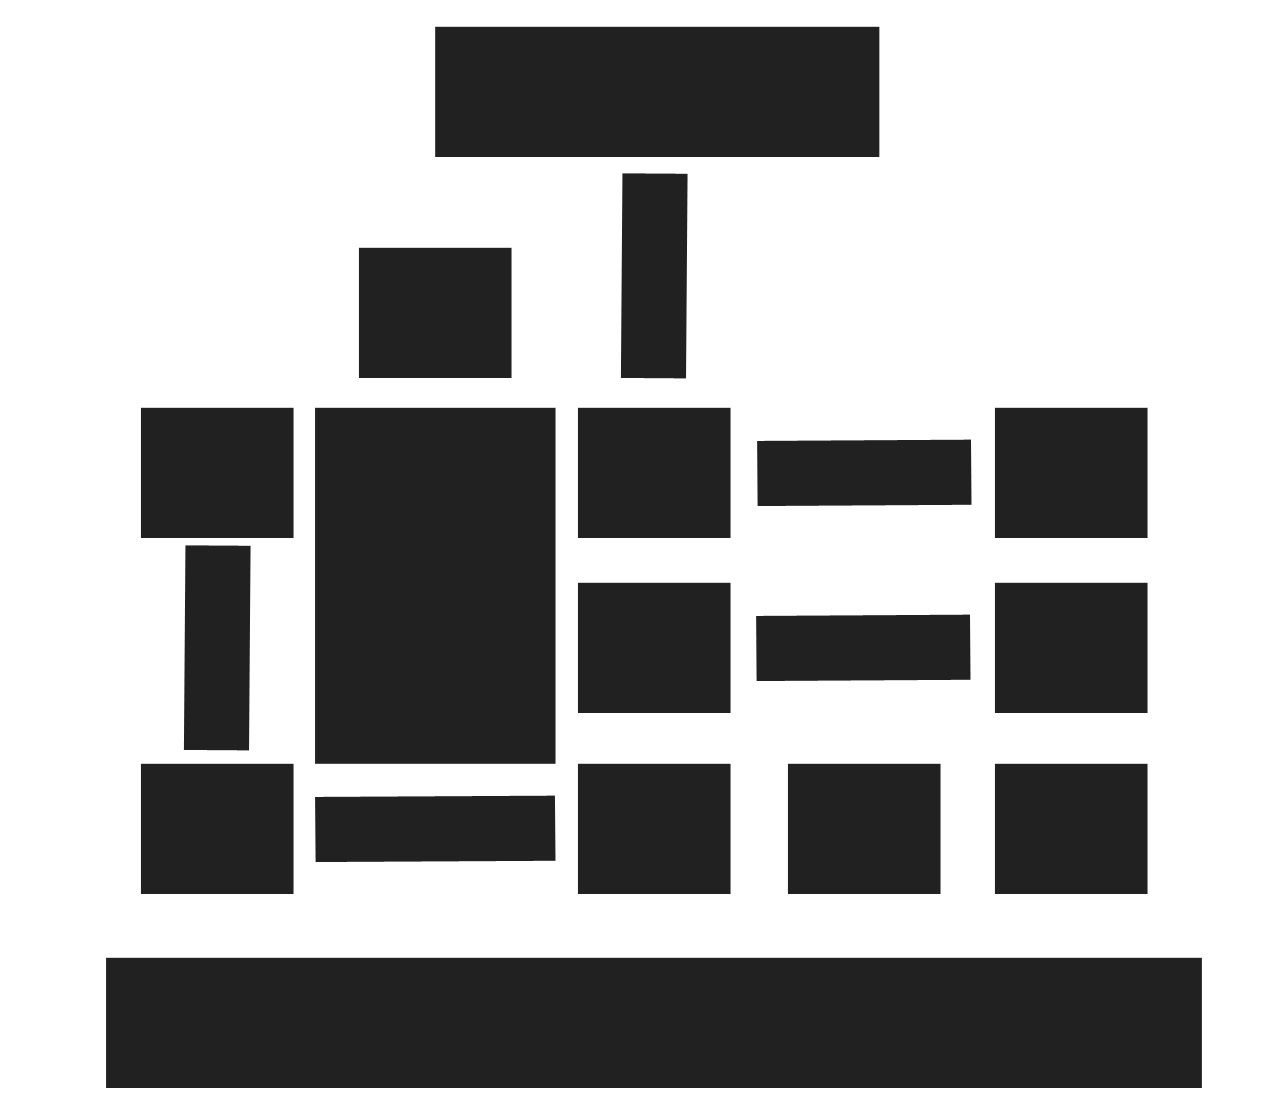
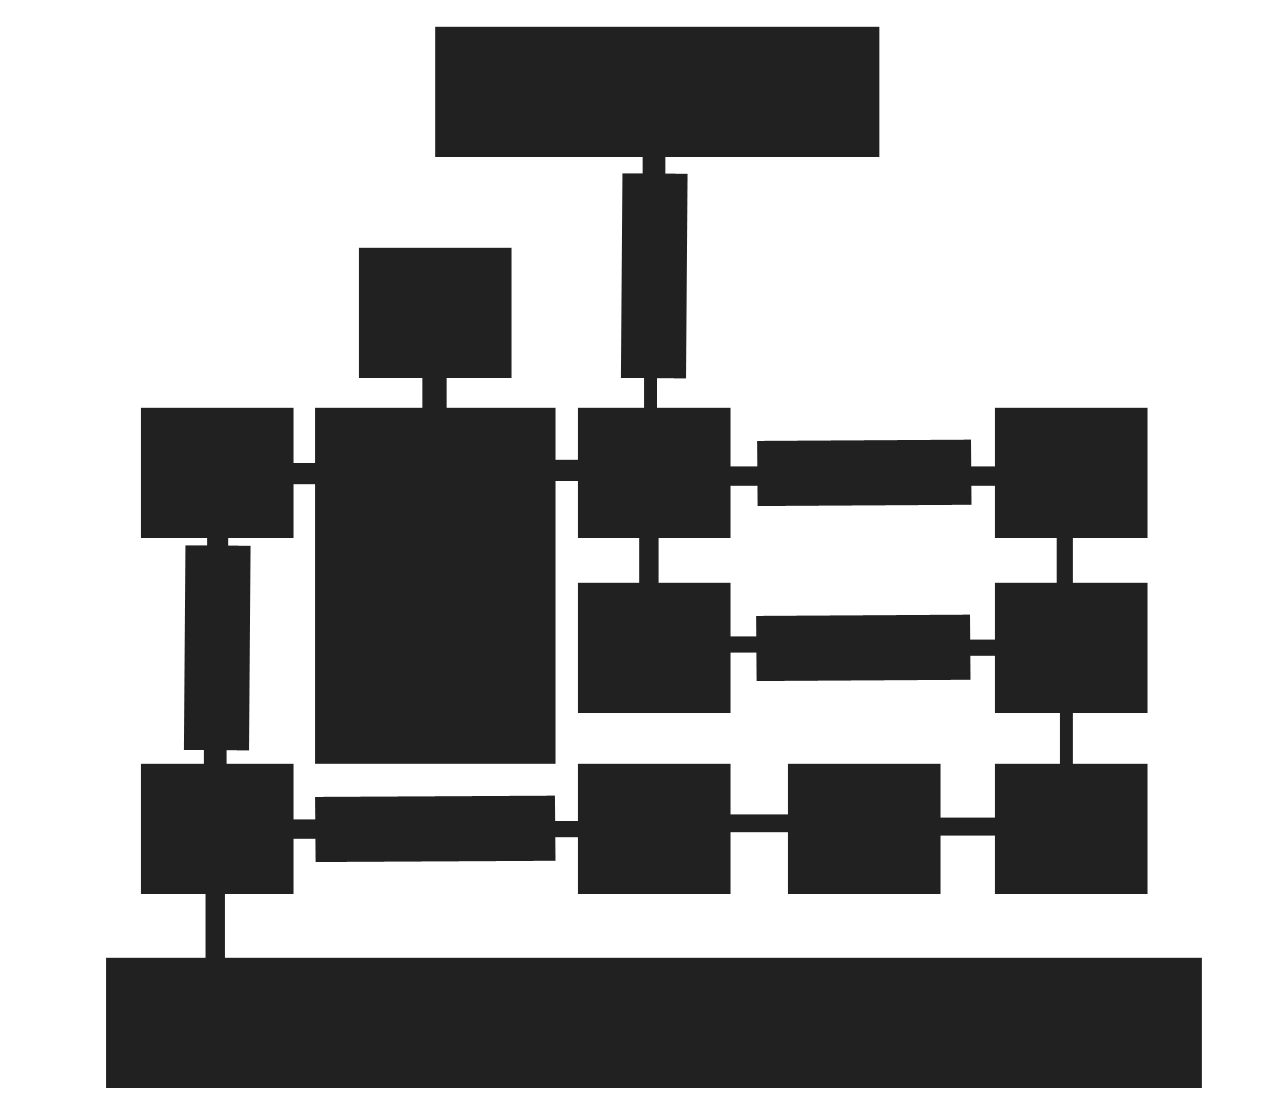
working on the point and click from room to room, set new locations for the move clicking rects, then the rect for the current room

diff --git a/Final Project/Game1.cs b/Final Project/Game1.cs
@@ -34,8 +34,11 @@ namespace Final_Project
             residenceRoom2,
             securityRoom,
             cargoBayRoom,
-            hallway1Room,
-            hallway2Room,
+            hallwayARoom,
+            hallwayBRoom,
+            hallwayCRoom,
+            hallwayDRoom,
+            hallwayERoom,
             medBayRoom,
             engineRoom,
             reactorRoom,
@@ -53,25 +56,38 @@ namespace Final_Project
         MouseState newMouseState, oldMouseState;
         KeyboardState keyboardState;
 
-        Texture2D yourEscapePodTexture, dockingBayTexture, cargoBayTexture, hallway1Texture, hallway2Texture, residenceRoom1Texture, residenceRoom2Texture, messHallRoomTexture, securityRoomTexture, engineRoomTexture, reactorRoomTexture, logRoomTexture, commRoomTexture, elevatorRoomTexture, captainsQuartersRoomTexture, bridgeTexture, titleScreen;
-        Texture2D rectangleButtonTexture, circleIconTexture, storyPanel1, storyPanel2, closeButtonTexture, xunariMapIconTexture;
-        Rectangle backgroundRect, startButtonRect, storyTextBox, mapButtonRect, closeButtonRect, escapePodMapIconRect, xunariMapRect, miniMapRect, miniMapCurrentRoomIcon;
+        Texture2D yourEscapePodTexture, dockingBayTexture, escapePodBayTexture, cargoBayTexture, hallway1Texture, hallway2Texture, residenceRoom1Texture, residenceRoom2Texture, messHallRoomTexture, securityRoomTexture, engineRoomTexture, reactorRoomTexture, logRoomTexture, commRoomTexture, elevatorRoomTexture, captainsQuartersRoomTexture, bridgeTexture, titleScreen;
+        Texture2D rectangleButtonTexture, circleIconTexture, storyPanel1, storyPanel2, closeButtonTexture, xunariMapIconTexture, miniMapTexture, miniMapCurrentRoomTexture;
+        Texture2D DBmove1, DBmove2, DBmove3;
+
+        Rectangle backgroundRect, startButtonRect, storyTextBox, mapButtonRect, closeButtonRect, escapePodMapIconRect, xunariMapRect, miniMapRect, miniMapCurrentRoomRect, moveRoomRect1, moveRoomRect2, moveRoomRect3;
         int storyPanelCount = 0, iconBlinkCounter;
         float timeStamp, elapsedTimeSec;
-        bool travelToXunariPrompt = false;
+        bool travelToXunariPrompt = false, onXunari = false;
 
         protected override void Initialize()
         {
             _graphics.PreferredBackBufferWidth = 1275;
             _graphics.PreferredBackBufferHeight = 1000;
             _graphics.ApplyChanges();
+
             backgroundRect = new Rectangle(0, 0, 1275, 1000);
+
             startButtonRect = new Rectangle(520, 515, 220, 110);
             mapButtonRect = new Rectangle(1115, 855, 150, 130);
-            storyTextBox = new Rectangle(250, 50, 800, 800);
             closeButtonRect = new Rectangle(1610, 0, 50, 50);
+
+            storyTextBox = new Rectangle(250, 50, 800, 800);
+
+            moveRoomRect1 = new Rectangle();
+            moveRoomRect2 = new Rectangle();
+            moveRoomRect2 = new Rectangle();
+
             escapePodMapIconRect = new Rectangle(700, 810, 20, 20);
             xunariMapRect = new Rectangle(575, 360, 150, 300);
+            miniMapRect = new Rectangle(1000, 705, 275, 275);
+            miniMapCurrentRoomRect = new Rectangle();
+
             storyPanelCount = 0;
             screen = Screen.Title;
 
@@ -86,6 +102,7 @@ namespace Final_Project
             // ROOM BACKGROUND TEXTURES
             yourEscapePodTexture = Content.Load<Texture2D>("yourEscapePodRoom");
             dockingBayTexture = Content.Load<Texture2D>("dockingBayRoom");
+            escapePodBayTexture = Content.Load<Texture2D>("escapePodBayRoom");
             cargoBayTexture = Content.Load<Texture2D>("cargoBayRoom");
             hallway1Texture = Content.Load<Texture2D>("hallwayRoom1");
             hallway2Texture = Content.Load<Texture2D>("hallwayRoom2");
@@ -109,10 +126,17 @@ namespace Final_Project
             storyPanel1 = Content.Load<Texture2D>("storyPanel1");
             storyPanel2 = Content.Load<Texture2D>("storyPanel2");
             xunariMapIconTexture = Content.Load<Texture2D>("xunariMapIcon");
+            miniMapTexture = Content.Load<Texture2D>("miniMap");
+            miniMapCurrentRoomTexture = Content.Load<Texture2D>("rectangle");
 
             // FONTS
             titleReportFont = Content.Load<SpriteFont>("1942Font");
             generalTextFont = Content.Load<SpriteFont>("hammerKeysFont");
+
+            // DEBUG
+            DBmove1 = Content.Load<Texture2D>("DBmoveRoom1");
+            DBmove2 = Content.Load<Texture2D>("DBmoveRoom2");
+            DBmove3 = Content.Load<Texture2D>("DBmoveRoom3");
         }
 
 
@@ -153,12 +177,36 @@ namespace Final_Project
                         screen = Screen.EscapePodMap;
                     }
                 }
-                if (currentRoom == Room.travelling)
+                else if (currentRoom == Room.dockingBayRoom)
+                {
+                    miniMapCurrentRoomRect = new Rectangle(1024, 942, 234, 31);
+                    moveRoomRect1 = new Rectangle(500, 400, 300, 500);
+                    if (newMouseState.LeftButton == ButtonState.Pressed && moveRoomRect1.Contains(newMouseState.X, newMouseState.Y))
+                    {
+                        currentRoom = Room.escapePodBayRoom;
+                    }
+                }
+                else if (currentRoom == Room.escapePodBayRoom)
+                {
+                    miniMapCurrentRoomRect = new Rectangle(1032, 895, 30, 30);
+                    moveRoomRect1 = new Rectangle(270, 150, 300, 500);
+                    moveRoomRect2 = new Rectangle(950, 200, 300, 500);
+                    if (newMouseState.LeftButton == ButtonState.Pressed && moveRoomRect1.Contains(newMouseState.X, newMouseState.Y))
+                    {
+                        currentRoom = Room.hallwayARoom;
+                    }
+                    else if (newMouseState.LeftButton == ButtonState.Pressed && moveRoomRect2.Contains(newMouseState.X, newMouseState.Y))
+                    {
+                        currentRoom = Room.hallwayBRoom;
+                    }
+                }
+                else if (currentRoom == Room.travelling)
                 {
                     elapsedTimeSec = (float)gameTime.TotalGameTime.TotalSeconds - timeStamp;
                     if (elapsedTimeSec >= 4)
                     {
                         currentRoom = Room.dockingBayRoom;
+                        onXunari = true;
                     }
                 }
             }
@@ -171,7 +219,8 @@ namespace Final_Project
                 if (travelToXunariPrompt && keyboardState.IsKeyDown(Keys.Enter))
                 {
                     screen = Screen.Game;
-                    currentRoom = Room.travelling;
+                    currentRoom = Room.dockingBayRoom; // change this back to Room.travelling when done debugging
+                    onXunari = true; // and delete this line
                     timeStamp = (float)gameTime.TotalGameTime.TotalSeconds;
                     travelToXunariPrompt = false;
                 }
@@ -189,6 +238,12 @@ namespace Final_Project
             GraphicsDevice.Clear(Color.Black);
 
             _spriteBatch.Begin();
+
+            if (onXunari)
+            {
+                iconBlinkCounter++;
+            }
+
             if (screen == Screen.Title)
             {
                 _spriteBatch.Draw(titleScreen, backgroundRect, Color.White);
@@ -240,18 +295,60 @@ namespace Final_Project
                     _spriteBatch.Draw(rectangleButtonTexture, mapButtonRect, Color.Black);
                     _spriteBatch.DrawString(generalTextFont, "MAP", new Vector2(1155, 885), Color.Olive);
                 }
-                else if (currentRoom == Room.travelling)
-                {
-
-                }
                 else if (currentRoom == Room.dockingBayRoom)
                 {
                     _spriteBatch.Draw(dockingBayTexture, backgroundRect, Color.White);
+                    _spriteBatch.Draw(miniMapTexture, miniMapRect, Color.White);
+                    //debug
+                    _spriteBatch.Draw(DBmove1, moveRoomRect1, Color.White);
+                    _spriteBatch.Draw(DBmove2, moveRoomRect2, Color.White);
+                    _spriteBatch.Draw(DBmove3, moveRoomRect3, Color.White);
+
+                    if (iconBlinkCounter < 60)
+                    {
+                        _spriteBatch.Draw(miniMapCurrentRoomTexture, miniMapCurrentRoomRect, Color.Black);
+                    }
+                    else if (iconBlinkCounter > 60 && iconBlinkCounter < 120)
+                    {
+                        _spriteBatch.Draw(miniMapCurrentRoomTexture, miniMapCurrentRoomRect, Color.DarkRed);
+                    }
+                    else if (iconBlinkCounter == 120)
+                        iconBlinkCounter = 0;
                 }
+                else if (currentRoom == Room.hallwayARoom)
+                {
+                    _spriteBatch.Draw(hallway1Texture, backgroundRect, Color.White);
 
+
+                }
+                else if (currentRoom == Room.hallwayBRoom)
+                {
+                    _spriteBatch.Draw(hallway2Texture, backgroundRect, Color.White);
+
+
+                }
+                else if (currentRoom == Room.escapePodBayRoom)
+                {
+                    _spriteBatch.Draw(escapePodBayTexture, backgroundRect, Color.White);
+                    _spriteBatch.Draw(miniMapTexture, miniMapRect, Color.White);
+                    //debug
+                    _spriteBatch.Draw(DBmove1, moveRoomRect1, Color.White);
+                    _spriteBatch.Draw(DBmove2, moveRoomRect2, Color.White);
+                    _spriteBatch.Draw(DBmove3, moveRoomRect3, Color.White);
+
+
+                    if (iconBlinkCounter < 60)
+                    {
+                        _spriteBatch.Draw(miniMapCurrentRoomTexture, miniMapCurrentRoomRect, Color.Black);
+                    }
+                    else if (iconBlinkCounter > 60 && iconBlinkCounter < 120)
+                    {
+                        _spriteBatch.Draw(miniMapCurrentRoomTexture, miniMapCurrentRoomRect, Color.DarkRed);
+                    }
+                    else if (iconBlinkCounter == 120)
+                        iconBlinkCounter = 0;
+                }
             }
-            
-
             _spriteBatch.End();
 
             base.Draw(gameTime);
